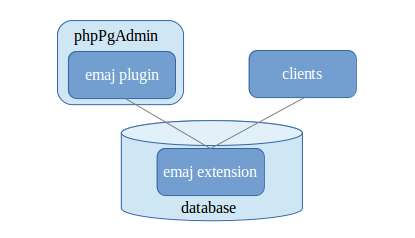
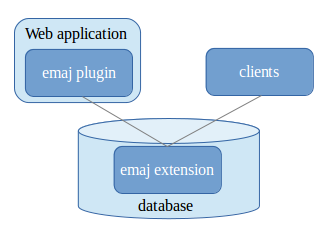
Add the new Emaj_web application to the documentation (existence, installation, usage).

Changed region(s): [[0.0303, 0.0588, 0.9697, 0.9412]]

diff --git a/docs/fr/webUsage.rst b/docs/fr/webUsage.rst
@@ -1,17 +1,31 @@
-Utilisation du plug-in phpPgAdmin
-=================================
+Utilisation des clients web
+===========================
 
 Accès à E-Maj dans l'interface phpPgAdmin
 -----------------------------------------
 
-Une fois connecté à une base de données dans laquelle l'extension E-Maj a été installée, et avec un rôle qui dispose des droits suffisants (super-utilisateur, *emaj_adm* ou *emaj_viewer*), une nouvelle icône rouge apparaît à droite dans la barre d'icônes horizontale de la base. Bien sûr, le schéma *emaj* apparaît dans la liste des schémas.
+Une fois connecté à une base de données dans laquelle l'extension E-Maj a été installée, et avec un rôle qui dispose des droits suffisants (super-utilisateur, *emaj_adm* ou *emaj_viewer*), une nouvelle icône rouge apparaît à droite dans la barre d'icônes horizontale de la base. Bien sûr, le schéma *emaj* figure dans la liste des schémas.
 
 Dans l'arborescence de gauche, un nouvel objet E-Maj apparaît également. Son ouverture permet de visualiser la liste des groupes de tables créés et d'accéder à l'un d'eux.
 
 .. figure:: images/ppa01.png
    :align: center
 
-   Figure 1 – Connexion à une base de données où E-Maj est installé.
+   Figure 1a – *phpPgAdmin* : connexion à une base de données où E-Maj est installé.
+
+Accès à Emaj_web
+----------------
+
+La connexion à une base de données est similaire à *phpPgAdmin*.
+
+Une fois connecté à une base de données dans laquelle l'extension E-Maj a été installée, et avec un rôle qui dispose des droits suffisants (super-utilisateur, *emaj_adm* ou *emaj_viewer*), l’icône rouge à droite dans la barre d'icônes horizontale de la base permet d’accéder aux fonctions spécifiques d’E-Maj.
+
+Dans l'arborescence de gauche, l’objet E-Maj apparaît également. Son ouverture permet de visualiser la liste des groupes de tables créés et d'accéder à l'un d'eux.
+
+.. figure:: images/web01.png
+	:align: center
+
+	Figure 1b – *Emaj_web* : connexion à une base de données où E-Maj est installé.
 
 
 Liste des groupes de tables

diff --git a/docs/en/webUsage.rst b/docs/en/webUsage.rst
@@ -1,17 +1,33 @@
-Using the phpPgAdmin plug-in
-============================
+Using the web clients
+=====================
 
 Accessing E-Maj from the phpPgAdmin interface
 ---------------------------------------------
 
-Once connected to a database where the E-Maj extension has been installed, and using a role having sufficient privileges (*super-user*, *emaj_adm* or *emaj_viewer*), a new red icon is appears on the right in the horizontal database icons tab. Obviously, the *emaj* schema appears in schemas list.
+Once connected to a database where the E-Maj extension has been installed, and using a role having sufficient privileges (*super-user*, *emaj_adm* or *emaj_viewer*), a new red icon appears on the right in the horizontal database icons tab. Obviously, the *emaj* schema appears in schemas list.
 
 In the browser tree on the left, a new E-Maj object also appears. By opening it, the list of created tables groups becomes directly accessible.
 
 .. figure:: images/ppa01.png
    :align: center
 
-   Figure 1 – Connection to a database where E-Maj is installed.
+   Figure 1a – *phpPgAdmin*: connection to a database where E-Maj is installed.
+
+
+Access to Emaj_web
+------------------
+
+The connection to a database is similar to *phpPgAdmin*.
+
+Once connected to a database where the E-Maj extension has been installed, and using a role having sufficient privileges (*super-user*, *emaj_adm* or *emaj_viewer*), a red icon appears on the right in the horizontal database icons tab.
+
+In the browser tree on the left, the E-Maj object also appears. By opening it, the list of created tables groups becomes directly accessible.
+
+.. figure:: images/web01.png
+	:align: center
+
+	Figure 1b – *Emaj_web*: connection to a database where E-Maj is installed.
+
 
 Tables groups list
 ------------------

diff --git a/docs/fr/webInstall.rst b/docs/fr/webInstall.rst
@@ -1,0 +1,39 @@
+Installation du client Emaj_web
+===============================
+
+Pré-requis
+----------
+
+*Emaj_web* nécessite un serveur web avec un interpréteur php.
+
+Téléchargement du plug-in
+-------------------------
+
+L’application *Emaj_web* peut être téléchargée depuis le dépôt git suivant :
+
+https://github.com/beaud76/emaj_web
+
+Configuration de l’application
+------------------------------
+
+Deux fichiers de configuration sont à renseigner.
+
+Paramétrage générale
+^^^^^^^^^^^^^^^^^^^^
+
+Le fichier *emaj_web/conf/config.inc.php* contient les paramètres généraux de l’application, incluant notamment la description des connexions aux instances PostgreSQL.
+
+Le fichier *emaj_web/conf/config.inc.php-dist* peut servir de base pour la configuration.
+
+Paramétrage du plug-in
+^^^^^^^^^^^^^^^^^^^^^^
+
+Comme *Emaj_web* utilise lui même le plugin pour *phpPgAdmin*, les paramètres spécifiques à ce plugin sont décrits dans un fichier de configuration séparé :  *emaj_web/plugins/Emaj/conf/config.inc.php*
+
+Pour pouvoir soumettre des rollbacks en tâche de fonds (c'est à dire sans mobiliser le navigateur durant le déroulement des rollbacks), il est nécessaire de valoriser deux paramètres de configuration contenus dans le fichier *Emaj/conf/config.inc.php* :
+
+* *$plugin_conf['psql_path']* définit le chemin de l'exécutable *psql*,
+* *$plugin_conf['temp_dir']* définit un répertoire temporaire utilisable lors des rollbacks en tâche de fonds. 
+
+Le fichier *config.inc.php-dist* fourni peut-être utilisé comme modèle de fichier de configuration.
+

diff --git a/docs/en/webInstall.rst b/docs/en/webInstall.rst
@@ -1,0 +1,40 @@
+Installing the Emaj_web client
+==============================
+
+Prerequisite
+------------
+
+*Emaj_web* requires a web server with a php interpreter.
+
+
+Plug-in download
+----------------
+
+The *Emaj_web* application can be downloaded from the following git repository:
+https://github.com/beaud76/emaj_web
+
+
+Application configuration
+-------------------------
+
+Two configuration files have to be set up.
+
+General parameters
+^^^^^^^^^^^^^^^^^^
+
+The file *emaj_web/conf/config.inc.php* contains the general parameters of the applications. It includes in particular the description of the PostgreSQL instances connections.
+
+The *emaj_web/conf/config.inc.php-dist* file may be used as a configuration template.
+
+Plug-in parametrization
+^^^^^^^^^^^^^^^^^^^^^^^
+
+As *Emaj_web* reuses the plugin for *phpPgAdmin*, the parameters that are specific to the plugin are defined into a separate file: *emaj_web/plugins/Emaj/conf/config.inc.php*.
+
+In order to submit batch rollback (i.e. without blocking the use of the browser while the rollback operation is in progress), it is necessary to specify a value for two configuration parameters contained in the *Emaj/conf/config.inc.php* file:
+
+* *$plugin_conf['psql_path']* defines the access path of the *psql* executable file,
+* *$plugin_conf['temp_dir']* defines a temporary directory that rollback functions can use.
+
+The distributed *config.inc.php-dist* file can be used as a configuration template.
+

diff --git a/docs/fr/webOverview.rst b/docs/fr/webOverview.rst
@@ -1,7 +1,14 @@
-Présentation générale du plug-in phpPgAdmin
-===========================================
+Présentation générale des clients web
+=====================================
 
-Pour faciliter l'utilisation d'E-Maj, un « **plug-in** » pour l'outil d'administration **phpPgAdmin**, dans ses versions 5.1 et suivantes, est également disponible.
+Pour faciliter l'utilisation d'E-Maj, deux applications web sont disponibles :
+
+* un « **plug-in** » pour l'outil d'administration **phpPgAdmin**, dans ses versions 5.1 et suivantes,
+* une application web indépendante, **Emaj_web**.
+
+Les deux clients web offrent les mêmes fonctionnalités autour d’E-Maj, avec une interface utilisateur similaire.
+
+*Emaj_web* empreinte à *phpPgAdmin* son infrastructure (browser, barre d’icones, connexion aux bases de données,...) et quelques fonctions utiles telles que la consultation du contenu de tables ou la saisie de requêtes SQL.
 
 Pour les bases de données dans lesquelles l'extension E-Maj a été installée, et si l'utilisateur est connecté avec un rôle qui dispose des autorisations nécessaires, tous les objets E-Maj sont visibles et manipulables.
 

diff --git a/docs/en/webOverview.rst b/docs/en/webOverview.rst
@@ -1,7 +1,14 @@
-phpPgAdmin plug-in overview
-===========================
+Web clients overview
+====================
 
-To make E-Maj use easier, a **plug-in for the phpPgAdmin** administration tool in its versions 5.1 and higher is also available.
+To make E-Maj use easier, two web applications are also available:
+
+* a **plug-in for the phpPgAdmin** administration tool in its versions 5.1 and higher,
+* an independent web application, **Emaj_web**.
+
+Both web clients provide the same functionalities with E-Maj, and have a very similar user interface.
+
+*Emaj_web* borrows to *phpPgAdmin* its infrastructure (browser, icon trails, database connection,  management,…) and some useful functions like browsing the tables content or editing SQL queries.
 
 For databases into which the E-Maj extension has been installed, and if the user is connected with a role that owns the required rights, all E-Maj objects are accessible.
 

diff --git a/docs/fr/introduction.rst b/docs/fr/introduction.rst
@@ -36,8 +36,8 @@ Principaux composants
 E-Maj regroupe en fait plusieurs composants :
 
 * un objet PorstgreSQL **extension** créé dans chaque base de données, nommée emaj et contenant quelques tables, fonctions, séquences, ...
-* un ensemble de **clients externes** appelables en mode ligne de commande,
-* une **interface graphique web** sous la forme d’un plugin pour l’outil phpPgAdmin.
+* un ensemble de **clients externes** appelables en ligne de commande,
+* une **interface graphique web** sous la forme d’un plugin pour l’outil *phpPgAdmin*, ou d’une application indépendante, **Emaj_web**.
 
 Les clients externes et l’interface graphique font appel aux fonctions de l’extension emaj.
 

diff --git a/docs/fr/marksFunctions.rst b/docs/fr/marksFunctions.rst
@@ -20,7 +20,7 @@ Pour supprimer un commentaire, il suffit d'exécuter la fonction avec une valeur
 
 Les commentaires sont stockés dans la colonne *mark_comment* de la table *emaj.emaj_mark* qui décrit les marques.
 
-Les commentaires sont surtout intéressants avec l'utilisation du :doc:`plug-in E-Maj pour phpPgAdmin <ppaPluginOverview>`. En effet, ce dernier les affiche systématiquement dans le tableau des marques d'un groupe.
+Les commentaires sont surtout intéressants avec l'utilisation des :doc:`clients web<webOverview>`. En effet, ces derniers les affichent systématiquement dans le tableau des marques d'un groupe.
 
 .. _emaj_get_previous_mark_group:
 

diff --git a/docs/en/marksFunctions.rst b/docs/en/marksFunctions.rst
@@ -20,7 +20,7 @@ To delete a comment, just call the function, supplying a *NULL* value as comment
 
 Comments are stored into the *mark_comment* column from the *emaj_mark* table, which describes … marks. 
 
-Comments are mostly interesting when using the E-Maj :doc:`phpPgAdmin plug-in <ppaPluginOverview>`. Indeed, the plug-in systematically displays the comments in the groups marks list.
+Comments are mostly interesting when using the E-Maj :doc:`web clients<webOverview>`. Indeed, they systematically display the comments in the groups marks list.
 
 .. _emaj_get_previous_mark_group:
 

diff --git a/docs/en/introduction.rst b/docs/en/introduction.rst
@@ -36,8 +36,8 @@ Main components
 E-Maj actually groups several components:
 
 * a PostgreSQL **extension** object created into each database, named *emaj* and holding some tables, functions, sequences, ...
-* a set of **external clients** working in command line interface mode,
-* a **web GUI** as a plugin for the phpPgAdmin tool.
+* a set of **external clients** working in command line interface,
+* a **web GUI** as a plugin for the *phpPgAdmin* tool, or an independent web application, **Emaj_web**.
 
 The external clients and the GUI call the functions of the emaj extension.
 

diff --git a/docs/en/ppaPluginInstall.rst b/docs/en/ppaPluginInstall.rst
@@ -37,5 +37,5 @@ In order to submit batch rollback (i.e. without blocking the use of the browser 
 * *$plugin_conf['psql_path']* defines the access path of the *psql* executable file,
 * *$plugin_conf['temp_dir']* defines a temporary directory that rollback functions can use.
 
-The distributed *config.inc.php-dist* file can be used as a configuration file model.
+The distributed *config.inc.php-dist* file can be used as a configuration template.
 

diff --git a/docs/fr/multiGroupsFunctions.rst b/docs/fr/multiGroupsFunctions.rst
@@ -11,7 +11,6 @@ Les avantages qui en résultent sont :
 * de pouvoir traiter tous les groupes de tables dans une seule transaction,
 * d'assurer un verrouillage de toutes les tables à traiter en début d'opération, et ainsi minimiser les risques d'étreintes fatales.
 
-
 .. _multi_groups_functions_list:
 
 Liste des fonctions multi-groupes
